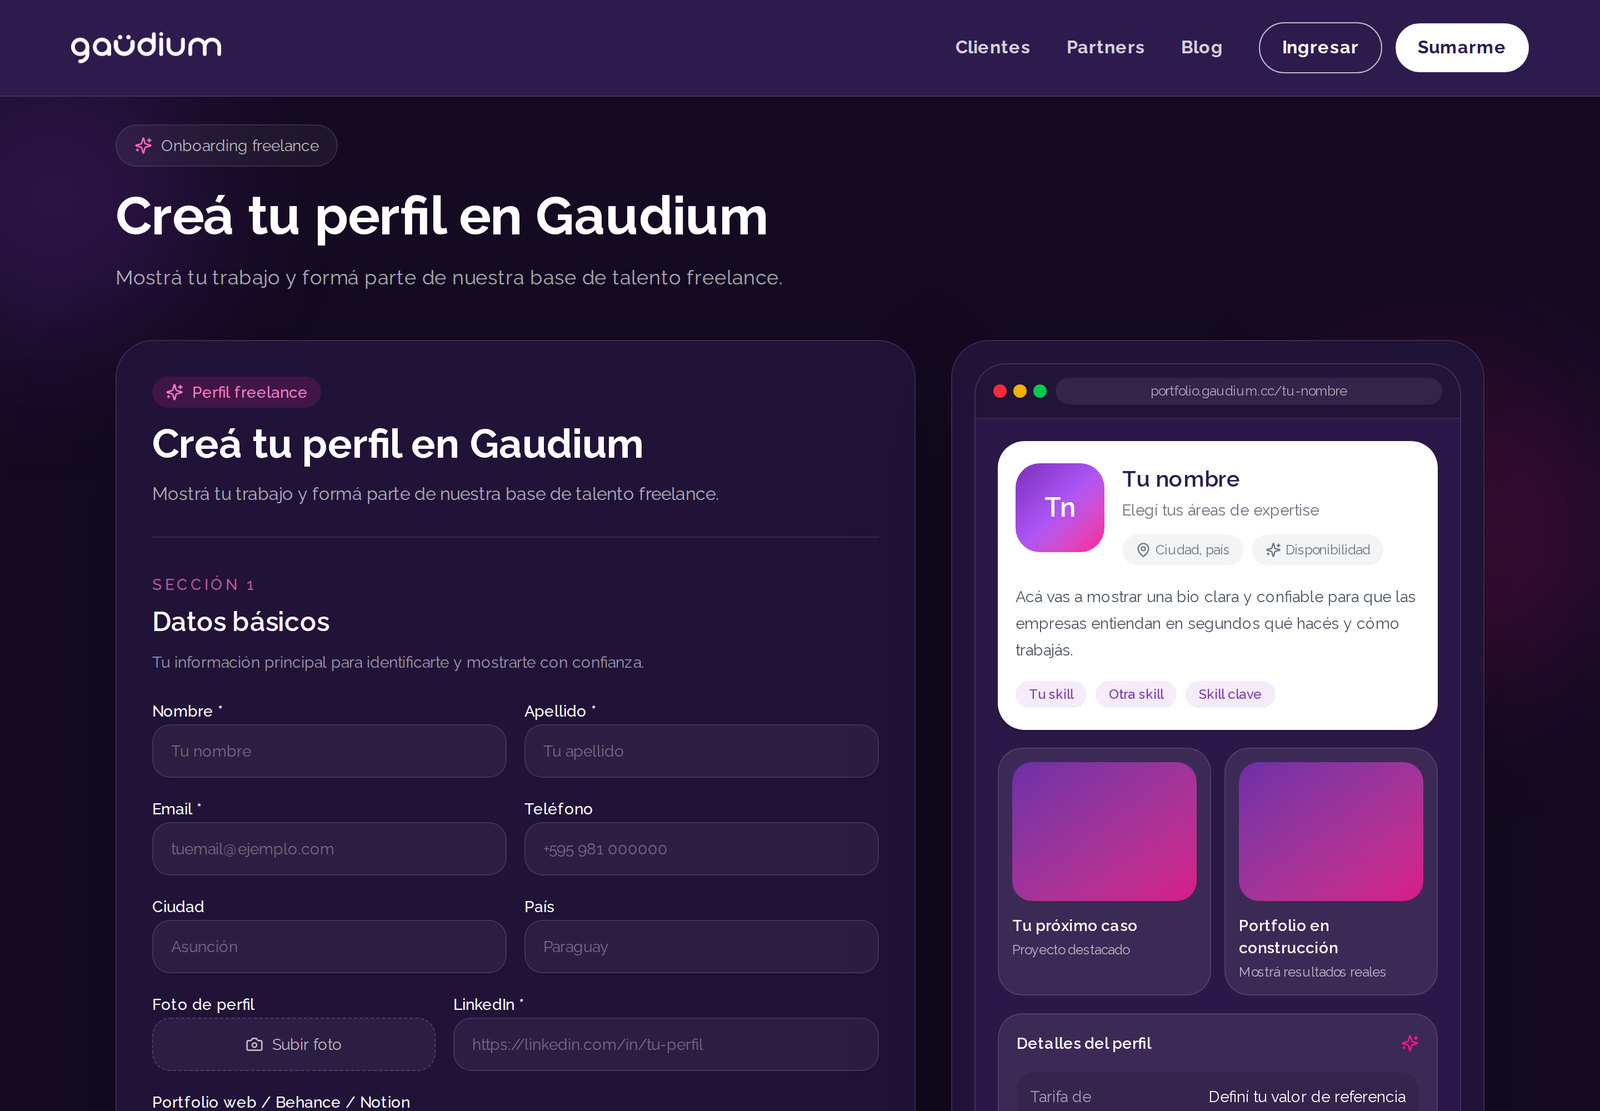
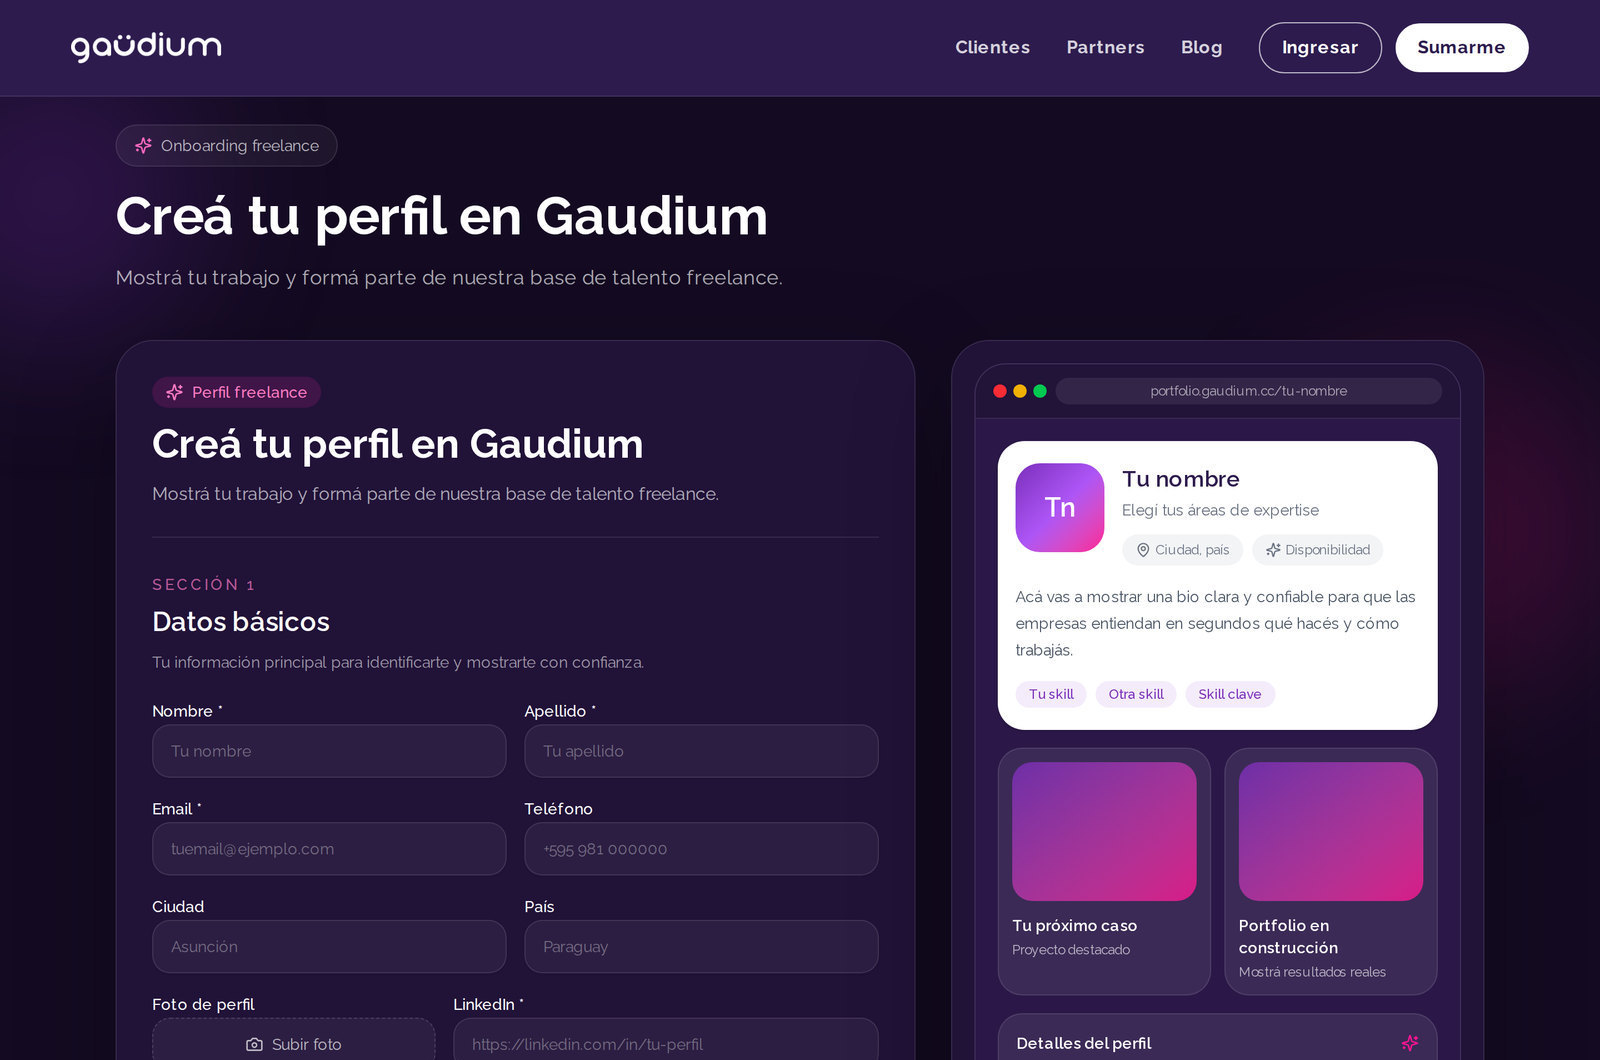
Suma el Portfolio Studio y el portfolio publicado
Agrega dos capturas al bloque del alta de freelancer: el panel del
Studio con su vista previa en vivo, y la pagina publicada en sus dos
temas. Ambas a lo ancho, que es como se leen.

Alinea el par de capturas del antes: estaban en 1.44 y 1.21 de
proporcion y ahora las dos miden 1600x1060, asi que entran parejas.
Verificado en las cinco parejas del caso: en escritorio las imagenes de
cada par miden lo mismo y los epigrafes arrancan a la misma altura.

El texto nombra ahora las secciones del panel y los dos temas, y el
pendiente queda acotado a lo que solo puede contar Vanessa.

Claude-Session: https://claude.ai/code/session_017BJHtk5P9ddNzC1WTUFsv3

diff --git a/proyectos/2match.html b/proyectos/2match.html
@@ -329,49 +329,59 @@
 								había visto.
 							</p>
 							<p>
-								La rediseñé como un <strong>panel por secciones</strong> que se
+								La rediseñé como un <strong>panel por secciones</strong> —perfil,
+								skills, enlaces, métricas, marcas, proyectos y servicios— que se
 								completa cuando se puede y se edita cuando se quiere, con un
 								indicador de cuánto falta y una <strong>vista previa en vivo</strong>
 								que se puede mirar en escritorio o en móvil. Lo que se construye ahí
 								es el <strong>perfil profesional</strong>: una página con enlace
-								propio, lista para mandar por WhatsApp o LinkedIn. Deja de ser un
-								trámite para entrar a la base y pasa a ser algo que el freelancer se
-								lleva puesto.
+								propio, en el tema claro u oscuro que cada uno elija, lista para
+								mandar por WhatsApp o LinkedIn. Deja de ser un trámite para entrar a
+								la base y pasa a ser algo que el freelancer se lleva puesto.
 							</p>
-						</div>
-
-						<div class="case-figures">
-							<figure class="case-figure">
-								<button class="case-figure__frame" type="button" data-full="../images/work/2match-free-antes.jpg" data-caption="El alta de freelancer, antes" data-slot="la captura del alta de freelancer anterior">
-									<img src="../images/work/2match-free-antes.jpg" alt="Versión anterior: una sola página larga con cinco secciones de formulario" loading="lazy" />
-								</button>
-								<figcaption><b>Antes.</b> Cinco secciones en una sola página, y el botón de crear al final de todo.</figcaption>
-							</figure>
 						</div>
 
 						<div class="case-figures case-figures--2">
 							<figure class="case-figure">
-								<button class="case-figure__frame" type="button" data-full="../images/work/2match-perfil-antes.jpg" data-caption="El editor de perfil, antes" data-slot="la captura del editor anterior">
-									<img src="../images/work/2match-perfil-antes.jpg" alt="Versión anterior del editor de perfil, con la carga a la izquierda y la vista previa a la derecha" loading="lazy" />
+								<button class="case-figure__frame" type="button" data-full="../images/work/2match-free-antes.jpg" data-caption="El alta de freelancer, antes" data-slot="la captura del alta anterior">
+									<img src="../images/work/2match-free-antes.jpg" alt="Versión anterior: una sola página larga con cinco secciones de formulario" loading="lazy" />
 								</button>
-								<figcaption><b>El editor, antes.</b> Carga a un lado, vista previa al otro, sin manera de volver sobre una sección.</figcaption>
+								<figcaption><b>El alta, antes.</b> Cinco secciones en una sola página, y el botón de crear al final de todo.</figcaption>
 							</figure>
 
 							<figure class="case-figure">
-								<button class="case-figure__frame" type="button" data-full="../images/work/2match-perfil.jpg" data-caption="El perfil profesional y el Portfolio Studio" data-slot="la captura del perfil y el studio">
-									<img src="../images/work/2match-perfil.jpg" alt="El perfil profesional publicado y el panel del Portfolio Studio con vista previa en vivo" loading="lazy" />
+								<button class="case-figure__frame" type="button" data-full="../images/work/2match-perfil-antes.jpg" data-caption="El editor de perfil, antes" data-slot="la captura del editor anterior">
+									<img src="../images/work/2match-perfil-antes.jpg" alt="Versión anterior del editor de perfil, con la carga a la izquierda y la vista previa a la derecha" loading="lazy" />
 								</button>
-								<figcaption><b>El perfil y el Studio.</b> La página publicada con su propio enlace, y el panel por secciones desde donde se edita.</figcaption>
+								<figcaption><b>El editor, antes.</b> Tres bloques fijos de carga a un lado y la vista previa al otro, sin manera de volver sobre una sección.</figcaption>
+							</figure>
+						</div>
+
+						<div class="case-figures">
+							<figure class="case-figure">
+								<button class="case-figure__frame" type="button" data-full="../images/work/2match-studio.jpg" data-caption="El Portfolio Studio" data-slot="la captura del Portfolio Studio">
+									<img src="../images/work/2match-studio.jpg" alt="El Portfolio Studio: menú de secciones a la izquierda, formulario al centro y vista previa en vivo a la derecha" loading="lazy" />
+								</button>
+								<figcaption><b>El Portfolio Studio.</b> Las secciones a la izquierda con el avance del perfil, el formulario al centro y la vista previa en vivo a la derecha, alternable entre escritorio y móvil.</figcaption>
+							</figure>
+						</div>
+
+						<div class="case-figures">
+							<figure class="case-figure">
+								<button class="case-figure__frame" type="button" data-full="../images/work/2match-portfolio-temas.jpg" data-caption="El portfolio publicado, en claro y en oscuro" data-slot="la captura del portfolio publicado">
+									<img src="../images/work/2match-portfolio-temas.jpg" alt="El portfolio publicado en sus dos temas, claro y oscuro, uno al lado del otro" loading="lazy" />
+								</button>
+								<figcaption><b>El portfolio publicado.</b> La página que queda al final, con su propio enlace y en los dos temas que el freelancer puede elegir.</figcaption>
 							</figure>
 						</div>
 
 						<div class="case-todo">
 							<b>Para ampliar</b>
 							<p>
-								Acá entra el detalle del Portfolio Studio y del perfil profesional
-								que quedaste en contarme: qué secciones tiene, qué se puede
-								personalizar y cómo se decidió el orden. Es la parte más propia del
-								proyecto y da para un bloque entero.
+								Las secciones y los temas ya se ven en las capturas. Lo que falta es
+								lo que solo sabés vos: por qué ese orden y no otro, qué se probó y
+								se descartó, y si hubo alguna discusión sobre cuánto dejar
+								personalizar. Es la parte más propia del proyecto.
 							</p>
 						</div>
 					</div>

diff --git a/index.html b/index.html
@@ -386,8 +386,8 @@
 								<img src="images/work/2match-despues.jpg" alt="Portada del sitio de 2match" loading="lazy" />
 								<span class="shot__zoom" aria-hidden="true"><svg viewBox="0 0 24 24" fill="none" stroke="currentColor" stroke-width="2" stroke-linecap="round"><circle cx="11" cy="11" r="6.5"/><path d="M16 16l4.5 4.5M11 8.5v5M8.5 11h5"/></svg></span>
 							</button>
-							<button class="shot shot--nda" type="button" data-full="images/work/2match-perfil.jpg" data-caption="El perfil profesional y el Portfolio Studio">
-								<img src="images/work/2match-perfil.jpg" alt="El perfil profesional y el panel del Portfolio Studio" loading="lazy" />
+							<button class="shot shot--nda" type="button" data-full="images/work/2match-studio.jpg" data-caption="El Portfolio Studio">
+								<img src="images/work/2match-studio.jpg" alt="El panel del Portfolio Studio con su vista previa en vivo" loading="lazy" />
 								<span class="shot__zoom" aria-hidden="true"><svg viewBox="0 0 24 24" fill="none" stroke="currentColor" stroke-width="2" stroke-linecap="round"><circle cx="11" cy="11" r="6.5"/><path d="M16 16l4.5 4.5M11 8.5v5M8.5 11h5"/></svg></span>
 							</button>
 							<button class="shot shot--nda" type="button" data-full="images/work/2match-alta-03.jpg" data-caption="El alta de empresa, paso 1 de 3">
